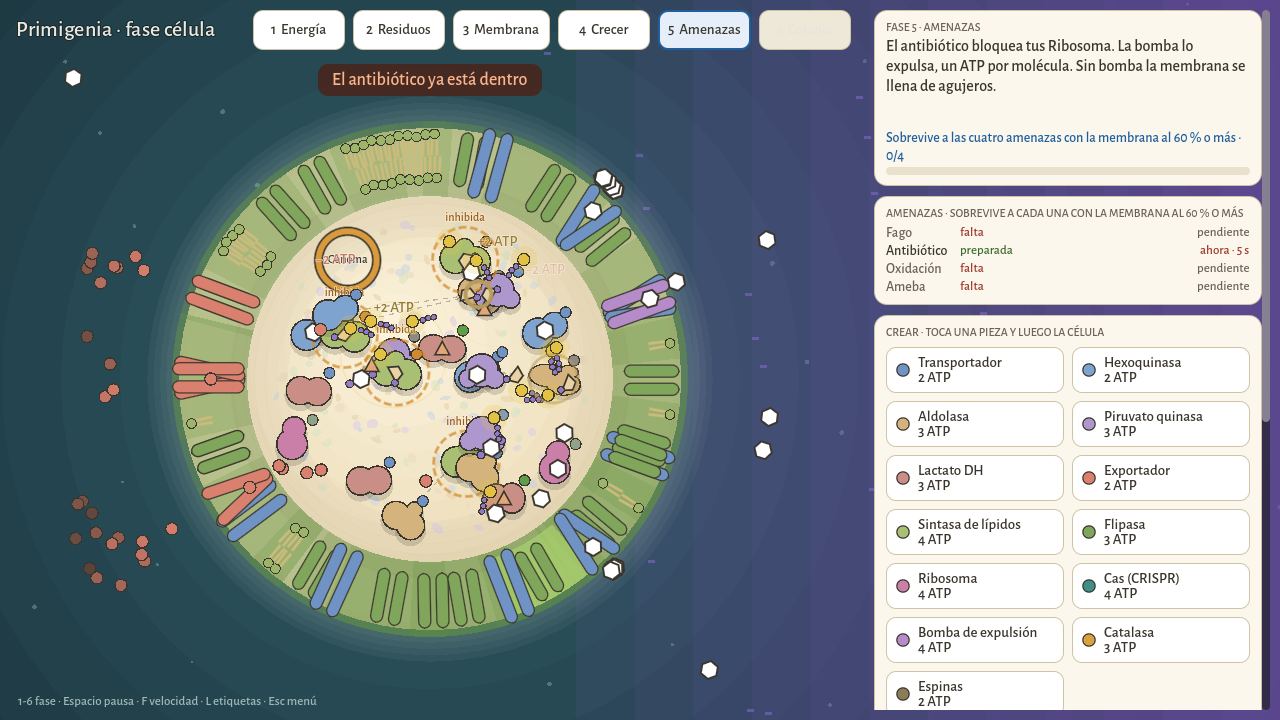
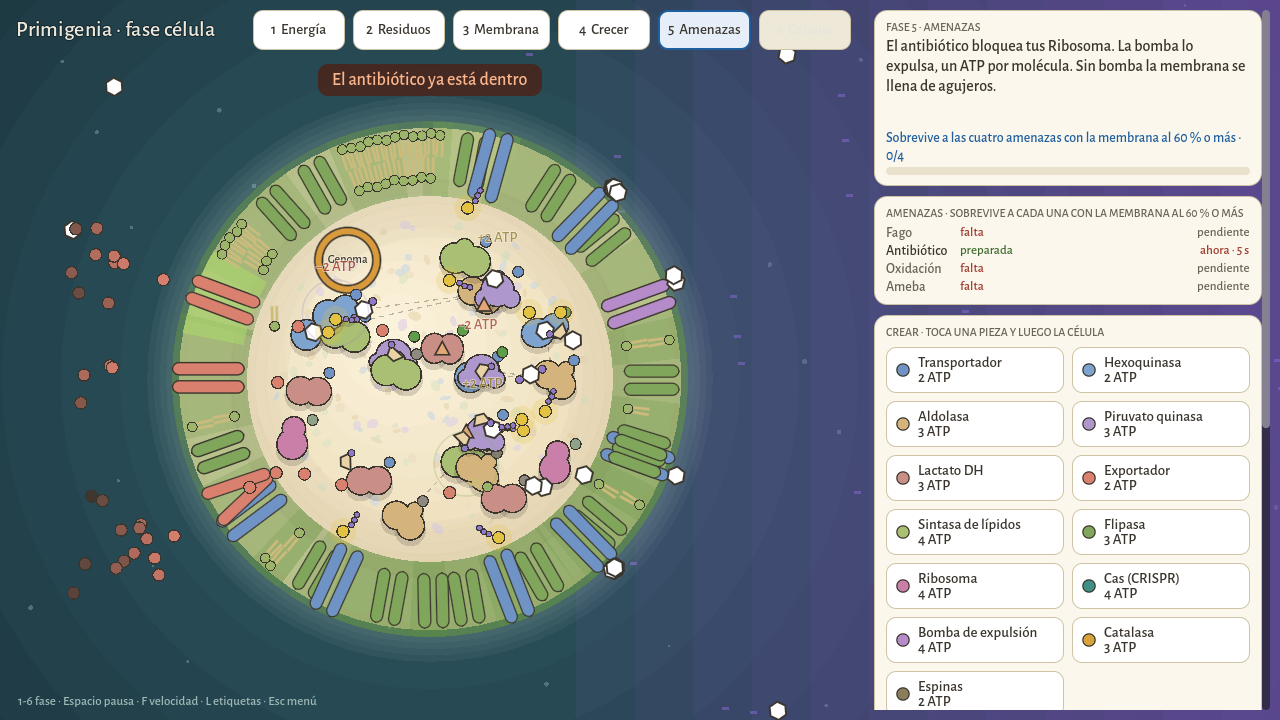
docs(cell): phases 5 and 6, legacy rules, evidence and hand-back note

diff --git a/docs/CELL-STAGE.md b/docs/CELL-STAGE.md
@@ -1,20 +1,22 @@
 # The cell stage
 
 A small Factorio-like throughput puzzle: a protocell you equip piece by piece until it is a factory that can join a colony.
-The design of record is the owner's HTML prototype, `art/reference/cell/fase-celula-escala.html`. The next design, still
-not ported, is `art/reference/cell/malos-tiempos.html` (threat scenes). `art/reference/cell/primigenia-3d-01-cell.jpg` is the
-later 3D art target.
+The design of record is the owner's HTML prototype, `art/reference/cell/fase-celula-escala.html`. Phase 5 ports its
+second prototype, `art/reference/cell/malos-tiempos.html` (threat scenes), as events against the player's factory; phase 6
+(the colony) and the carry-over sheet are the approved additions of DESIGN.md A26. `art/reference/cell/primigenia-3d-01-cell.jpg`
+is the later 3D art target.
 
 ## Run
 
 - `make godot-cell` plays it (`godot --path godot -- --cell`; the `--cell` user arg skips the terrain load).
 - `Game.goto_cell()` (godot/game/game.gd) changes to `res://cell/cell_stage.tscn`; the menu branch can call it.
-- `make godot-cell-test` runs the headless sim tests (`cell/tests/cell_test.gd`) and the UI smoke test (`cell_ui_test.gd`).
+- `make godot-cell-test` runs the headless sim tests (`cell_test.gd`), the threat tests (`threats_test.gd`), the colony and legacy tests (`colony_test.gd`) and the UI smoke test (`cell_ui_test.gd`).
+- `make godot-cell2-evidence` writes the phase 5 and 6 screenshots to `docs/evidence/godot/cell2/`.
 - `make godot-cell-evidence` writes screenshots to `docs/evidence/godot/cell/` (xvfb, software GL). Extra argument
   `WxH` after the out dir renders one frame at that size (`size_1024x600.png`, `size_1920x1080.png`).
 - `--cell-seed=N` after `--` fixes the sim seed (otherwise it is time based).
 
-Keys: 1-4 phase, Space pause, F speed x1/x3, L labels, Esc closes a tool or opens the pause list (Resume, Restart,
+Keys: 1-6 phase (5 opens after the aggregation, 6 after the four threats), Space pause, F speed x1/x3, L labels, Esc closes a tool or opens the pause list (Resume, Restart,
 Main menu). Mouse: tap a tool, then the cell (enzymes inside, transporters/exporters/flippases on the membrane); drag a piece
 to move it; right click or "Quitar" removes; hovering a piece shows what it does.
 
@@ -28,6 +30,51 @@ the colony stage) and "Seguir con esta célula" / "Empezar de nuevo". Each enzym
 entrada, atasco, inhibida, falta ATP) and its use %, the Líneas panel lists the use and a bottleneck diagnosis, hexokinase is
 inhibited by its product and lipid synthesis brakes when energy is low.
 
+## Phase 5, Amenazas (godot/cell/cell_sim.gd)
+
+Opens after the aggregation ("Seguir con esta célula" lands here with the factory you built). Four threats come in a fixed,
+published order (phage, antibiotic, oxidation, amoeba). Each one is `wait` (30 s before the first, 20 s between), `warn` (10 s,
+with a sign you can see), `hit`, `settle` (8 s), then a verdict: it is survived when the membrane never fell under 60 % since the
+warning; a failed one comes back after the next wait (the diagnosis line says so). The goal is the four survived. The side card
+lists each threat with its counter piece (ready / missing) and its state; the top banner counts down.
+
+| Threat | Warning | What it does | Counter |
+|---|---|---|---|
+| Fago | a phage drifts to your transporter, the door pulses | injects DNA that hijacks a ribosome (drains ATP, makes baby phages); uncut after 14 s the ribosome is lost and the membrane lyses (arc of 52 lipids) | Cas: cuts the DNA in the hijacked ribosome after 4 s and learns it; the second phage is cut 36 px after injection, before it arrives |
+| Antibiótico | the water turns purple from the right | 8 molecules block every piece of one type (ribosomes if you have them) and prick the membrane (one hole per molecule every 1.4 s) for up to 26 s | efflux pump on the membrane: one molecule per 0.6 s, 1 free ATP each; no ATP, no pumping |
+| Oxidación | a red arc glows on the side the radicals come from | 80 strong radicals in 8 s break 7 lipids each and oxidise enzymes (8 s) | catalase: neutralises one radical per 0.2 s, so three clear the wave; flippases repair the rest |
+| Ameba | an amber arc and the amoeba approaching | bites an arc of the membrane every 0.5 s and swallows the cell after 9 s of holding on (arc of 3 rad) | 3 spines on the membrane: it lets go after 1.5 s without a bite. Size tier 3 or more: it cannot swallow, it bites 6 s and leaves (survivable, not clean) |
+
+New pieces (all costs in ATP): ribosome 4 (the prototype's pink two-lobe body; it builds the counter proteins: a Cas, pump,
+catalase or spines cannot be started without a built, free ribosome, and while it works it eats 1 ATP every 5 s), Cas 4, efflux
+pump 4, catalase 3, spines 2. Hijacked ribosomes turn green, blocked ones grey with purple diamonds. `Sim.threat_info()` is the
+read side (kind, stage, eta, results, counter); `start_threats(first, idx)` restarts the schedule (tests and evidence).
+"Montar ejemplo" in phase 5 builds the phase-4 factory of the aggregation test plus two ribosomes.
+
+## Phase 6, Colonia (godot/cell/colony_sim.gd, colony_canvas.gd)
+
+A hex board (radius 2, 19 slots) around the founder, which is your cell: `Sim.legacy_sheet()` (ATP/min, membrane, size, piece
+counts) is read once when the phase opens and every block reuses it: the sheet's ATP/min over 150 sets the income of every
+cell, its membrane % the hit points. Blocks: energy cell (5 ATP, makes 2.2 ATP/s x rate), motile cell (5 ATP, burns 0.9 ATP/s
+to swim), defensive cell (6 ATP, x1.6 hit points, upkeep), photosynthetic (locked, "próximamente"). A block costs ATP taken from a
+neighbour and the neighbours share ATP (levels equalise, drawn as pink bridges with moving beads), so ATP is the bottleneck you
+read from the bars under each cell. Speed = 40 x fed motile cells / colony size; the light is 380 units away. At the light with
+7 cells an amoeba wave comes from a marked side (10 s warning: an arc and dotted rings on the front-line cells), bites the front
+line four times (55 damage, 100 hit points) and leaves after two bites absorbed by defensive cells. Survived with the founder
+and 7 cells: the end card "La colonia se convierte en criatura". A failed wave comes back.
+
+## The carry-over sheet (godot/cell/cell_legacy.gd)
+
+The end card shows what passes to the creature and writes `user://cell_legacy.json` (version 1; a provisional copy with
+`source: "aggregation"` is written when you continue from the aggregation card, never over a colony one). `Game.cell_legacy()`
+returns it (`{}` if missing, unreadable, another version or unknown values); the main menu's Criatura card shows
+"Herencia de tu célula: cazador · espinas · mediano". The creature stage does not consume it yet.
+- Diet: herbívoro if the colony has a photosynthetic cell (locked, so not yet); carroñero when waste handling (lactate DH + exporters)
+  is at least 25 % of your pieces (a fermentation-heavy metabolism); otherwise cazador (lean glycolysis).
+- Defence part: espinas = spines on the membrane + defensive colony cells; placas = flippases / 4 + 1 for a membrane of 95 % or more;
+  espinas if they are at least as many as the plates, else placas, else none.
+- Size class: growth tier 0-1 small, 2-3 medium, 4-5 large.
+
 ## Layout of the code (godot/cell)
 
 - `cell_sim.gd`: the whole prototype logic as a RefCounted, no nodes. `Sim.new(seed, phase)`, `step(dt)` with a fixed dt
@@ -38,7 +85,8 @@ inhibited by its product and lipid synthesis brakes when energy is low.
   same seed gives the same run.
 - `cell_canvas.gd`: `_draw()` of the cell (water, drifting specks, bilayer with lipid heads and tails, cream cytoplasm,
   blobby enzymes, molecules as dots, floating texts, bursts, colony neighbours) and the mouse.
-- `cell_stage.gd` / `cell_stage.tscn`: the screen, the cream control column, tabs, aggregation card, pause list.
+- `cell_stage.gd` / `cell_stage.tscn`: the screen, the cream control column, tabs, aggregation card, threats card, colony tools, carry-over card, pause list.
+- `colony_sim.gd`, `colony_canvas.gd`, `cell_legacy.gd`: phase 6 and the legacy file (above).
 - `cell_strings.gd`: Spanish (default) and English strings, language from `Game.settings.language` through `ui/strings.gd`.
 
 UI motion follows the polish rules: buttons press to 0.97 in 120 ms (ease out), the hint cross-fades in 150 ms, the goal
@@ -49,7 +97,7 @@ bar tweens 200 ms, the aggregation card enters 0.96 to 1 with a fade in 300 ms, 
 Every number and rule of the prototype script: piece costs, ATP-paid construction (ATP molecules travel to the piece),
 passive glucose transport and leak back out without hexokinase, hexokinase `need 2`, the inhibition thresholds
 (`6 x size` free glucose-6-phosphate for hexokinase, jam thresholds for the others), ATP upkeep and rescue trickle, ROS,
-membrane integrity spread, leaks, growth tiers `20 + 6 x tier`, the aggregation timer, zoom. Differences: the cell body is
+membrane integrity spread, leaks, growth tiers `20 + 6 x tier`, the aggregation timer, zoom. Differences: the lipids now slide sideways like the threats prototype's (0.035 rad/s, damage travels with the lipid), the cell body is
 drawn with stacked circles instead of canvas gradients and shadows, the crowd texture is a list of ellipses, tooltips
 are new, and placement is blocked while the colony animation runs.
 
@@ -57,8 +105,15 @@ are new, and placement is blocked while the colony animation runs.
 
 `cell_test.gd` (34 checks): demo at phases 1 to 3 reaches its goal inside a time budget, costs are paid (ATP molecules
 arrive), hexokinase is inhibited at 6 free glucose-6-phosphate, removal, phase locks and placement areas, same seed same
-stats, aggregation after tier 5 sustained on a large factory. `cell_ui_test.gd` (15 checks): keys, tool then click,
-right-click removal, pause list. Note the headless window is 64 px, so clicks are delivered to the canvas directly.
+stats, aggregation after tier 5 sustained on a large factory. `threats_test.gd` (58 checks): placement gates (a ribosome
+first), counters not built while ribosomes are hijacked, each threat with and without its counter (membrane minimum, lost
+ribosomes, Cas learning, pump clearing and needing ATP, catalase worth over 20 points, spines and size), a failed threat
+coming back, one whole wave in order, warnings before every hit, determinism by seed. `colony_test.gd` (70 checks): board
+rules, ATP cost and sharing, income from the founder's sheet, motion, the amoeba wave with and without defence, the
+carry-over rules, legacy file round trip and rejection of bad files, the sheet taken from a cell. `cell_ui_test.gd`
+(38 checks): keys, tool then click, right-click removal, pause list, phase 5 and 6 locks, threat card, colony tools and
+clicks, the end card. `make godot-menu-test` checks the legacy line on the Criatura card. The headless window is 64 px, so
+clicks are delivered to the canvas directly.
 
 ## Open questions for the owner
 
@@ -67,8 +122,11 @@ right-click removal, pause list. Note the headless window is 64 px, so clicks ar
 2. Language: Spanish by default when the OS locale is Spanish, else English. Should the cell stage always default to Spanish?
 3. The prototype lets you place pieces during the colony animation; this port blocks it. Keep?
 4. Are Alegreya Sans and the cream panels the final look, or should the stage take the diegetic UI language of the island?
-5. Threat scenes (`malos-tiempos.html`, slice S4) are not ported. That file is a looping narrated animation (phage injects
-   into a ribosome and CRISPR/Cas cuts it, antibiotic blocks ribosomes and an efflux pump clears them, an oxidative wave
-   breaks the membrane, an amoeba bites a patch and a capsule or flagellum answers) with ribosomes, a genome ring and an
-   efflux pump that the playable stage does not have yet. Making them events against the player's cell needs those pieces
-   and their costs decided first. Which should come first, and are ribosomes a placeable piece?
+5. (answered by the A26 slice) Threats are in as phase 5 and ribosomes are a placeable piece (4 ATP) that gates the counter
+   proteins.
+6. A player reaches phase 5 at size 5, so "size 3 or more" always counters the amoeba (survivable but with bites; spines make it
+   clean). Keep both counters, or should the amoeba scale with the cell?
+7. The phase 5 clock (30 s before the first warning) starts when you press 5, and only runs while phase 5 is the visible
+   phase (the cell sim steps only then). Should the player be able to call the first threat early or hold it back?
+8. The diet thresholds (waste handling >= 25 % of pieces = carroñero) are my reading of "fermentation-heavy"; with the
+   prototype's single glycolysis line every factory has similar ATP per glucose, so efficiency alone cannot tell them apart.

diff --git a/docs/godot/CELL-STAGE-2.md b/docs/godot/CELL-STAGE-2.md
@@ -1,0 +1,42 @@
+# Cell stage 2: threats, colony, carry-over sheet
+
+Branch `c2/cell-stage-2`. Design in `docs/CELL-STAGE.md` (phases 5 and 6, the legacy rules, the open questions); this is the
+hand-back note.
+
+## What is in
+- Phase 5 Amenazas: ribosome, Cas, efflux pump, catalase and spines; phage, antibiotic, oxidation and amoeba on a visible
+  schedule (wait, 10 s warning, hit, settle, verdict at membrane >= 60 %). Drawings and motion ported from malos-tiempos.html
+  (phage, DNA, baby phages, antibiotic diamonds, radicals, amoeba, genome ring, fluid lipids).
+- Phase 6 Colonia: hex board, energy / motile / defensive blocks (photosynthetic locked), ATP shared between neighbours,
+  swimming to the light, one amoeba wave, end card "La colonia se convierte en criatura".
+- Carry-over sheet: `godot/cell/cell_legacy.gd`, `user://cell_legacy.json` (version 1), `Game.cell_legacy()`, the Criatura card
+  line "Herencia de tu célula: ...". The creature stage does not consume it.
+
+## Checks (exact)
+| Suite | Result |
+|---|---|
+| `make godot-cell-test`: cell_test.gd | 34 checks, 0 failed |
+| threats_test.gd | 58 checks, 0 failed |
+| colony_test.gd | 70 checks, 0 failed |
+| cell_ui_test.gd | 38 checks, 0 failed |
+| `make godot-menu-test` | 28 checks, 0 failures; `--play` run 1 check, 0 failures |
+| godot-test (run_m0_tests.gd) | 890 checks, 0 failures |
+| `make godot-ui-test` | 804 checks, 0 failures |
+| godot-play-test (play_test.gd) | 217 checks, 0 failures |
+
+`make godot` was not run (it would rebuild into the shared `libcpore` .so); `godot/bin` links to the main checkout's library and
+the three Godot suites were run with the same commands the Makefile uses.
+
+## Evidence
+`docs/evidence/godot/cell2/` (xvfb, software GL, 1280x720; `size_1024x600_*` are the same scenes small): `threat1_phage_*`,
+`threat2_antibiotic_*`, `threat3_oxidation_*` (with and without catalase), `threat4_amoeba_*` (bites, spines), `phase5_panel`,
+`colony1..7` (founder, slots, swimming, warning with the dotted front line, bites absorbed, end card, undefended),
+`ref_chromium_malos-tiempos.png` (the four scenes of the prototype rendered in Chromium with SwiftShader, scene times 9.5 / 9 /
+7 / 8.5 s) to compare against.
+
+## Choices to review
+- Amoeba: three spines make it let go; tier 3 or more only stops the swallowing (it still bites for 6 s). Reaching phase 5 needs
+  tier 5, so size alone always "counters" it.
+- The first threat's clock only runs on the phase 5 screen.
+- Diet rule uses waste-handling share (see CELL-STAGE.md question 8).
+- Phase-5 "Montar ejemplo" builds the three-line factory of the aggregation test, so a demo cell can face the threats.
